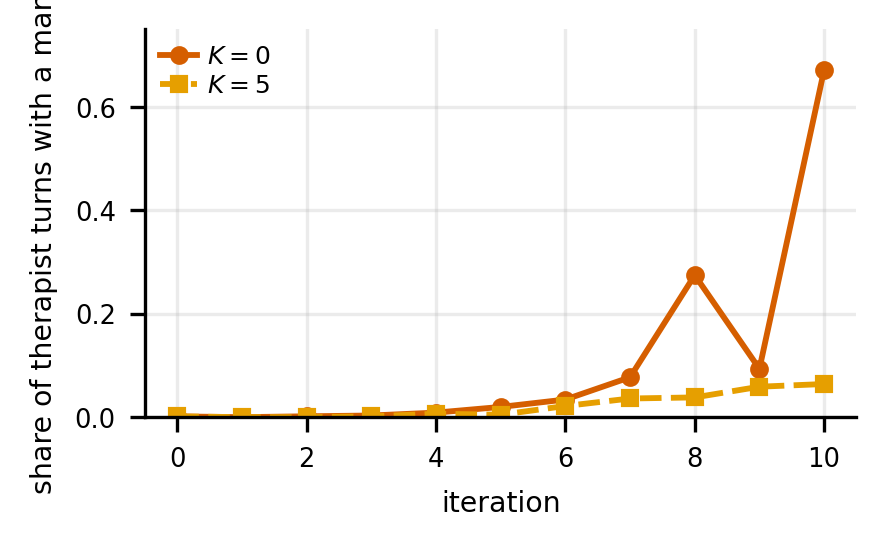
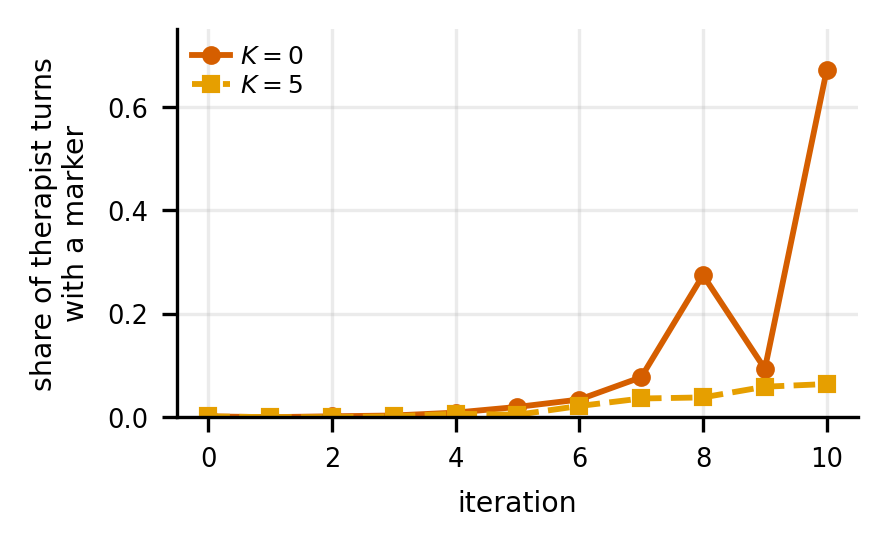
P1 App A: the embedding figure is the tailoring panel alone; the rollout audit is text only (figure dropped); Figure 4's y-label unclipped

diff --git a/papers/2026_grpo_lookahead_mi/sections/A_tables.tex b/papers/2026_grpo_lookahead_mi/sections/A_tables.tex
@@ -4,14 +4,18 @@
 Table~\ref{tab:scores}: every instrument at every iteration under the training oracle (the held-out
 judge's version is Table~\ref{tab:scores-heldout} in Appendix~\ref{app:heldout}, which collects
 that judge's results). Figure~\ref{fig:overpraise}: the keyword marker of \S\ref{sec:therapist}.
-Figure~\ref{fig:responsiveness}: the therapist's four replies of Table~\ref{tab:process} by
-iteration under both judges. Figure~\ref{fig:textspace}: the two runs in sentence-embedding space
-(Figure~\ref{fig:textspace-body} and a third measure). Figure~\ref{fig:tails}: the $\Kf$ rollout audit, a check that the
-five-turn look-ahead ran as specified. Over the $121{,}088$ logged $\Kf$ candidates ($88\%$ of those scored), $82\%$ of
+Figure~\ref{fig:textspace}: how much the therapist's turns depend on the patient, in
+sentence-embedding space (\S\ref{sec:therapist}). Figure~\ref{fig:responsiveness}: the
+therapist's four replies of Table~\ref{tab:process} by iteration under both judges.
+
+\textbf{The look-ahead rollouts.} A check that the five-turn look-ahead ran as specified. A
+rollout ends early when the patient closes the session or when the policy's own turn inside the
+rollout ends it. Over the $121{,}088$ logged $\Kf$ candidates ($88\%$ of those scored), $82\%$ of
 rollouts ran the full five turns; the early-ending share ranged from $12\%$ at iteration 10 to
 $30\%$ at iteration 6, and in $16\%$ of candidates the patient closed the session. Early-ending
 candidates scored at or below their group mean (by up to $0.09$ points, depending on how the
-rollout ended) and were the group's best less often than chance ($0.10$ vs.\ $0.125$).
+rollout ended) and were the group's best less often than chance ($0.10$ vs.\ $0.125$), so the
+look-ahead reward slightly favours turns after which the session goes on.
 
 \begin{table*}[t]
 \centering
@@ -67,6 +71,17 @@ Iteration 0 is the Base.}
 \label{fig:overpraise}
 \end{figure}
 
+\begin{figure}[!htb]
+\centering
+\includegraphics[width=0.48\textwidth]{figures/text_grpo.png}
+\caption{How much the therapist's turns depend on the patient. Every therapist turn is embedded
+with \texttt{all-MiniLM-L6-v2} (the scripted opener excluded); the plot shows the share of the
+embedding variance that lies between conversations rather than within them, with a $95\%$
+bootstrap band over conversations. Lower means the therapist says similar things whoever the
+patient is. Iteration 0 is the Base.}
+\label{fig:textspace}
+\end{figure}
+
 \begin{figure*}[t]
 \centering
 \includegraphics[width=0.94\textwidth]{figures/responsiveness_grpo.png}
@@ -78,38 +93,4 @@ with non-specific praise, \textbf{(c, g)} with persuasion, and \textbf{(d, h)} w
 The iteration-10 values are the middle blocks of Tables~\ref{tab:process}
 and~\ref{tab:process-heldout}.}
 \label{fig:responsiveness}
-\end{figure*}
-
-\begin{figure*}[t]
-\centering
-\includegraphics[width=0.94\textwidth]{figures/text_grpo.png}
-\caption{The two runs in sentence-embedding space (every therapist turn embedded with
-\texttt{all-MiniLM-L6-v2}; the scripted opener excluded); panels (a) and (b) are
-Figure~\ref{fig:textspace-body}. \textbf{(a)} The cosine between the two runs' moves away from
-the Base's mean embedding at each iteration: $1$ would mean they learned the same thing.
-\textbf{(b)} The share of embedding variance that lies between conversations, a measure of how
-much the therapist's turns depend on which patient it is talking to, with a $95\%$ bootstrap band
-over conversations. \textbf{(c)} The mean pairwise cosine between turns at the same position in
-different conversations: convergence on a template.}
-\label{fig:textspace}
-\end{figure*}
-
-\begin{figure*}[t]
-\centering
-\includegraphics[width=0.96\textwidth]{figures/tail_audit_grpo.png}
-\caption{The $\Kf$ rollout audit, over the $121{,}088$ logged candidates ($88\%$ of those
-scored). A rollout is meant to add five turns after the candidate; it is cut short when the
-patient closes the session or when the policy's own turn inside the rollout ends it.
-\textbf{(a)} How often that happened, by training iteration ($95\%$ bootstrap intervals; pooled
-$18\%$), and how much of it was the patient closing the session ($16\%$). \textbf{(b)} What a
-cut-short rollout cost the candidate: its reward minus the mean of its group, by how many turns
-were actually simulated and who ended them (\emph{pat.}: the patient closed the session;
-\emph{pol.}: the policy's own turn ended it; \emph{none}: the candidate itself ended the session).
-Candidates whose rollout ran all five turns sit at the group mean, those the patient closed sit
-close to it, and those the policy's own turn ended sit about $0.09$ below. \textbf{(c)} How often
-a candidate was its group's best, separately for rollouts that ran to length and rollouts that
-were cut short; the dotted line is chance, $1/8$. Read together: the look-ahead ran as specified
-in most cases, and a rollout that ended early cost the candidate a little, so the look-ahead
-reward slightly favours turns after which the session goes on.}
-\label{fig:tails}
 \end{figure*}
